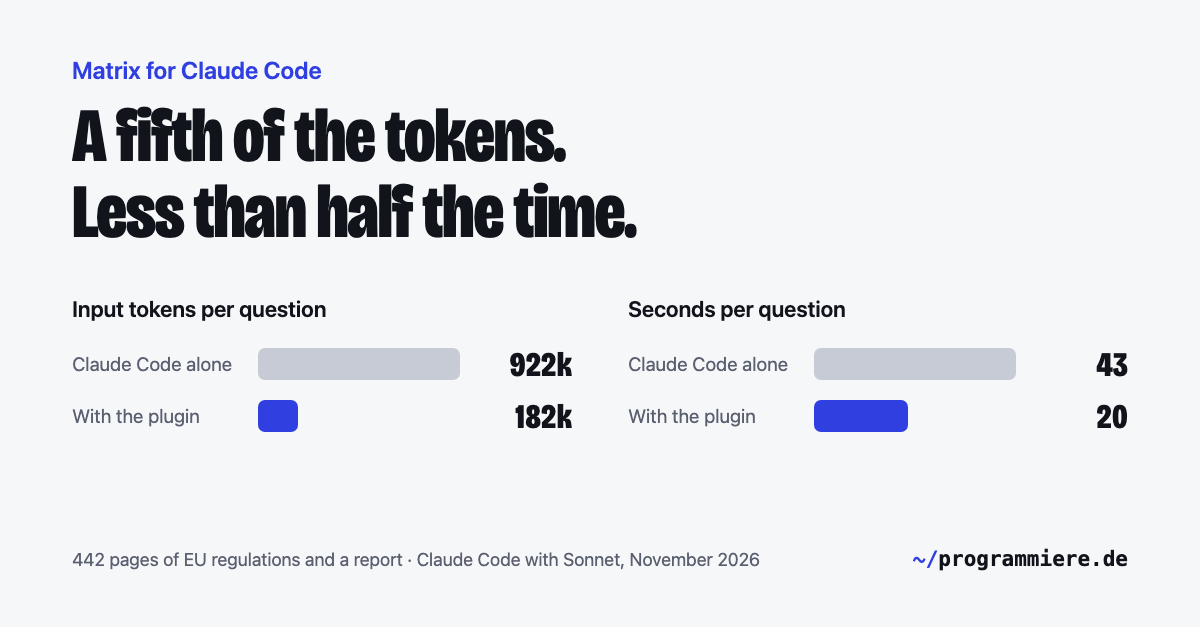
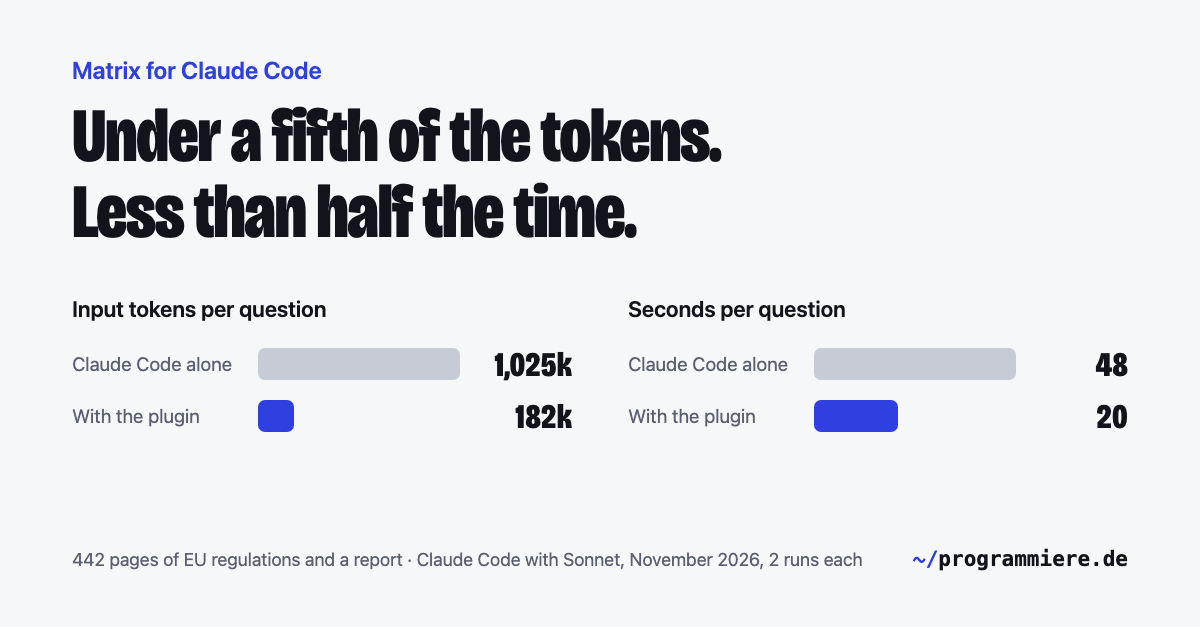
Plugin-Seite: Werte ohne Plugin aus zwei Läufen je Frage, Kosten als Bruchteil
Ohne Plugin jetzt Ø 48 s, 1.025k Eingabetokens, 14,4 Aufrufe, 7 von 8 richtig;
je Frage neue Werte, Grafik und Vorschaubild neu. Einleitung nennt Cache-
Lesezugriffe und die Kosten zu API-Preisen (etwa ein Drittel); Fußnote mit
Cache-Anteilen und Hinweis auf den Build während des zweiten Laufs; Streuung
zwischen den Läufen ehrlich angegeben. Review publish-reviewer: PASS.

diff --git a/src/data/cv.ts b/src/data/cv.ts
@@ -78,7 +78,7 @@ export const SIDE_QUESTS = [
     name: 'Matrix for Claude Code',
     pb: '5× fewer tokens',
     what: 'Free Claude Code plugin: local semantic index over document folders, citations to file, page and passage, tables across documents.',
-    note: 'Measured on 442 pages: a fifth of the input tokens per question, and 20 instead of 43 s.',
+    note: 'Measured on 442 pages: under a fifth of the input tokens per question, and 20 instead of 48 s.',
     href: '/projects/matrix-claude-code/',
   },
   {

diff --git a/src/content/projects/matrix-claude-code.md b/src/content/projects/matrix-claude-code.md
@@ -1,6 +1,6 @@
 ---
 title: Matrix for Claude Code
-summary: "A free plugin that gives Claude Code a local, searchable index of your PDFs, Word files, scans and charts. Measured on 442 pages: a fifth of the input tokens per question, and 20 instead of 43 seconds."
+summary: "A free plugin that gives Claude Code a local, searchable index of your PDFs, Word files, scans and charts. Measured on 442 pages: under a fifth of the input tokens per question, and 20 instead of 48 seconds."
 status: Public · v0.2.9
 order: 1.5
 featured: true
